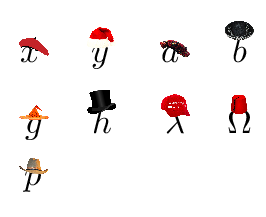
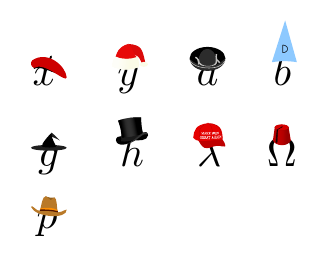
Updated readme image

diff --git a/readme_images/hats.tex b/readme_images/hats.tex
@@ -4,14 +4,14 @@
 \begin{document}
 \vspace*{-9mm}
 \begin{align*}
-\hatn{x}{beret}&&
-\hatn{y}{santa}&&
-\hatn{a}{sombrero}&&
-\hatn{b}{dunce}\\
-\hatn{g}{witch}&&
-\hatn{h}{tophat}&&
-\hatn{\lambda}{mlga}&&
-\hatn{\Omega}{fez}\\
-\hatn{p}{cowboy}
+\hat[beret]{x}&&
+\hat[santa]{y}&&
+\hat[sombrero]{a}&&
+\hat[dunce]{b}\\
+\hat[witch]{g}&&
+\hat[tophat]{h}&&
+\hat[mlga]{\lambda}&&
+\hat[fez]{\Omega}\\
+\hat[cowboy]{p}
 \end{align*}
 \end{document}
